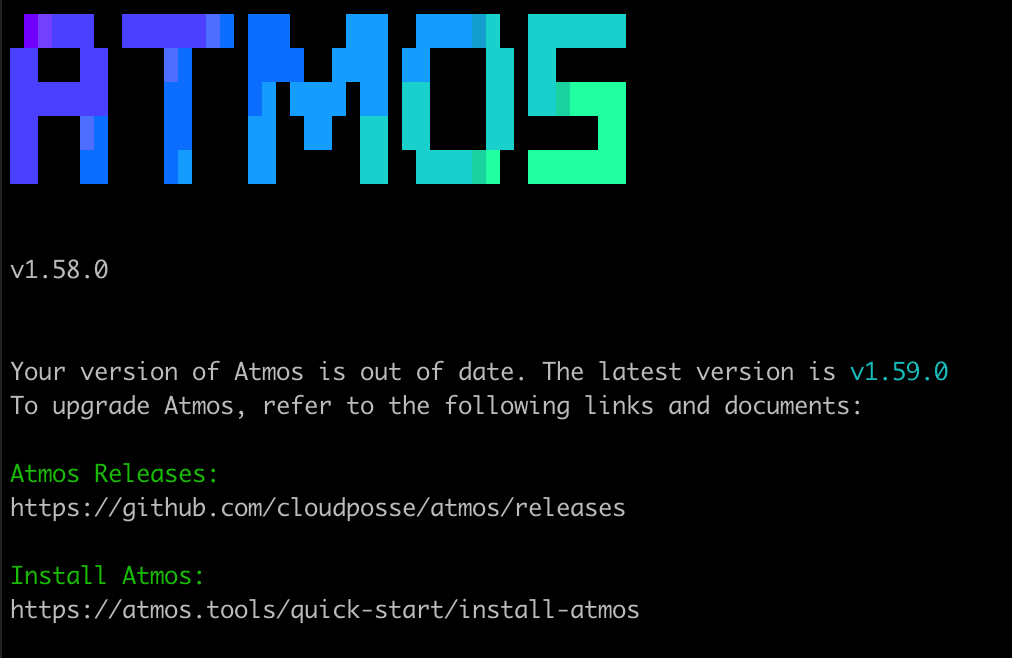
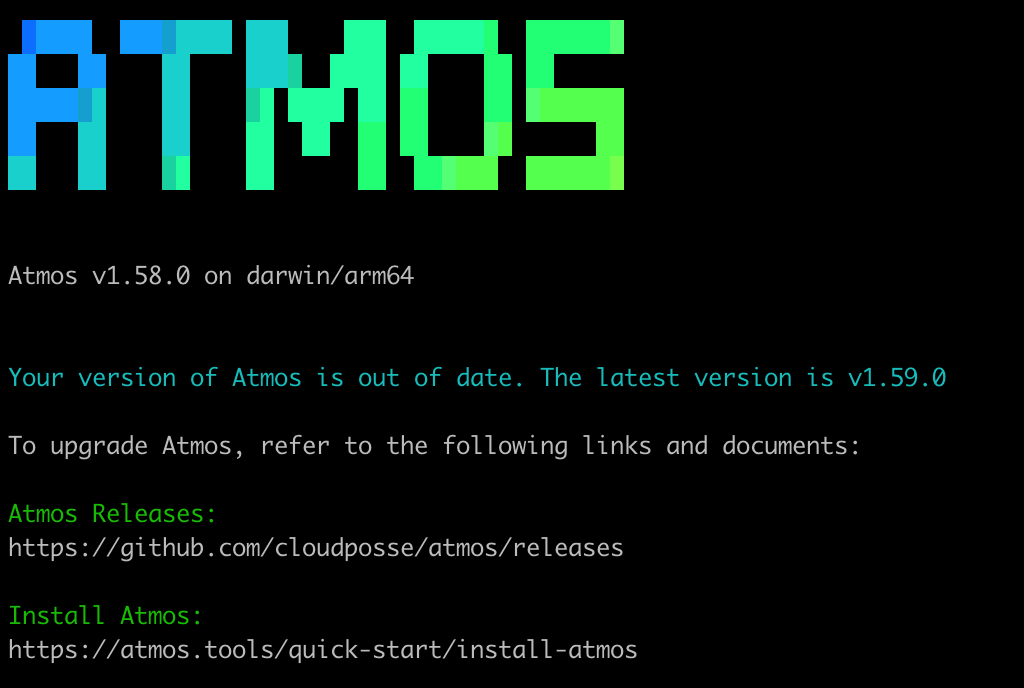
Updates

diff --git a/cmd/cmd_utils.go b/cmd/cmd_utils.go
@@ -329,11 +329,7 @@ func printMessageToUpgradeToAtmosLatestRelease(latestVersion string) {
 	c1 := color.New(color.FgCyan)
 	c2 := color.New(color.FgGreen)
 
-	fmt.Println()
-	fmt.Print("Your version of Atmos is out of date. The latest version is ")
-	u.PrintMessageInColor(latestVersion, c1)
-	fmt.Println()
-
+	u.PrintMessageInColor(fmt.Sprintf("\nYour version of Atmos is out of date. The latest version is %s\n\n", latestVersion), c1)
 	u.PrintMessage("To upgrade Atmos, refer to the following links and documents:\n")
 
 	u.PrintMessageInColor("Atmos Releases:\n", c2)

diff --git a/cmd/version.go b/cmd/version.go
@@ -2,6 +2,7 @@ package cmd
 
 import (
 	"fmt"
+	"runtime"
 
 	"github.com/spf13/cobra"
 
@@ -24,7 +25,7 @@ var versionCmd = &cobra.Command{
 			u.LogErrorAndExit(err)
 		}
 
-		u.PrintMessage(Version)
+		u.PrintMessage(fmt.Sprintf("Atmos %s on %s/%s", Version, runtime.GOOS, runtime.GOARCH))
 		fmt.Println()
 
 		// Check for the latest Atmos release on GitHub
